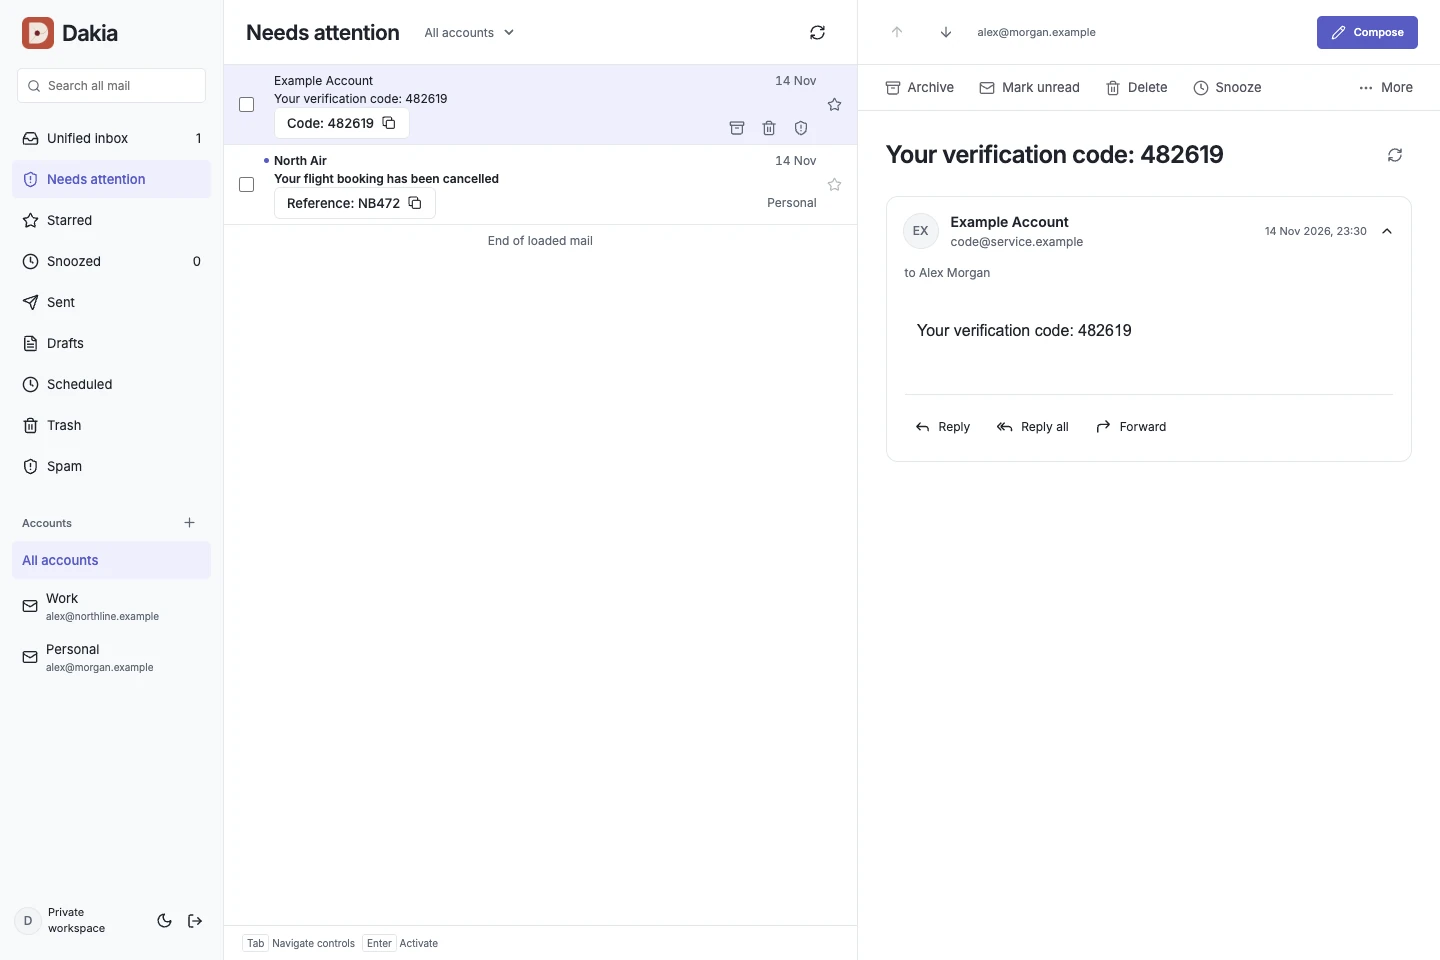
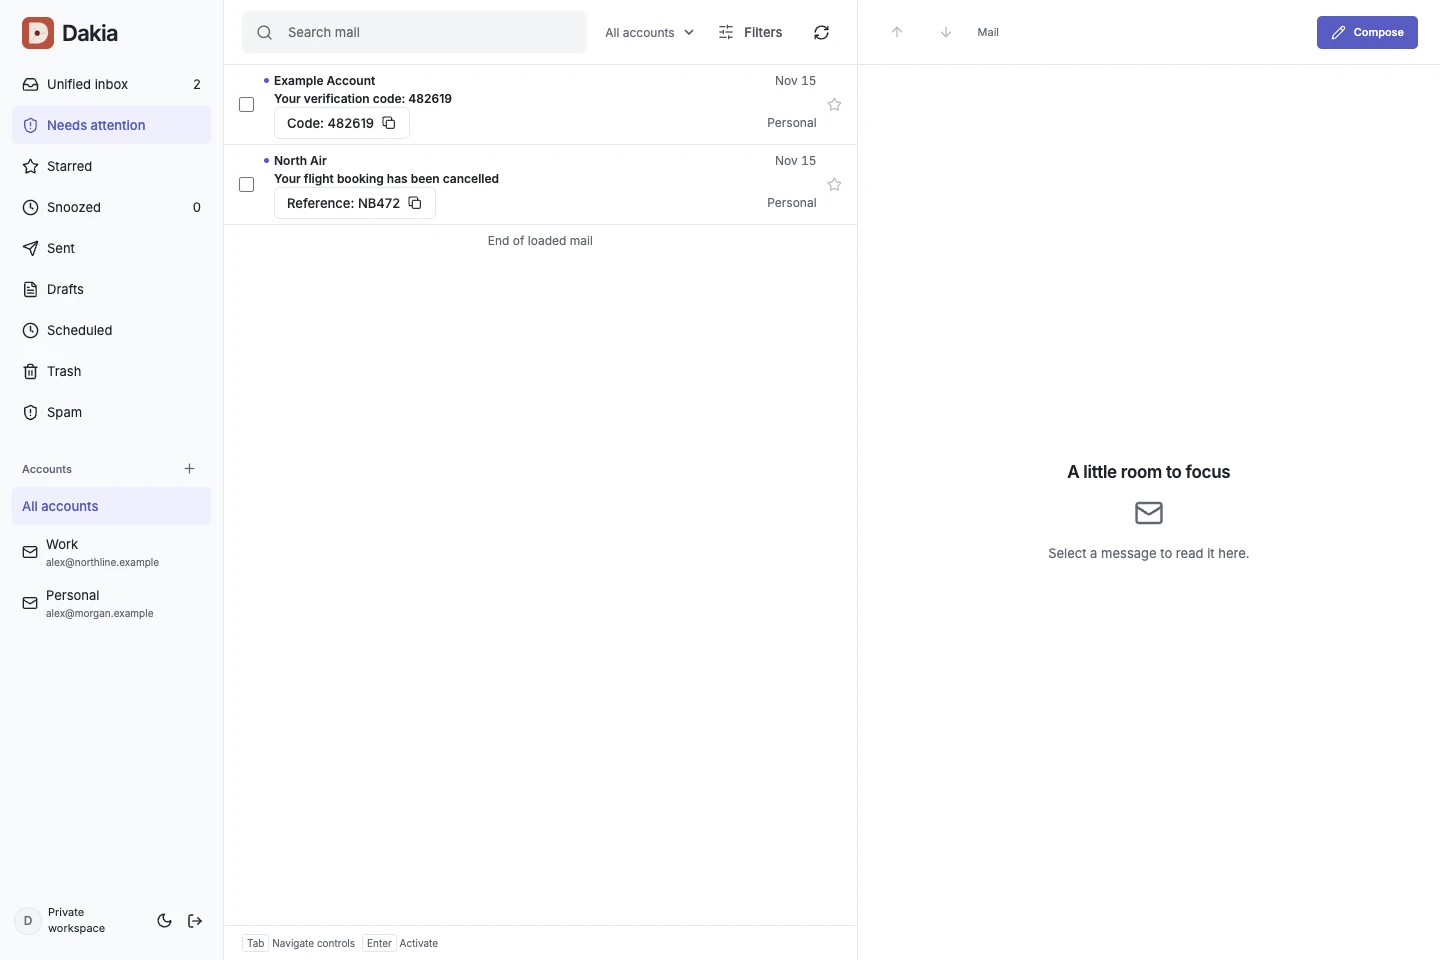
Refresh README screenshots with the search toolbar

diff --git a/docs/images/README.md b/docs/images/README.md
@@ -1,6 +1,6 @@
 # Documentation screenshots
 
-Captured on 2026-11-14 from source revision `1c104a7`, using the running Dakia frontend in an isolated Google Chrome session. All mail, names, addresses, and attachments are fictional. No real mailbox, personal browser profile, provider connection, or email delivery was used.
+Captured on 2026-11-15 from source revision `c63030c`, using the running Dakia frontend in an isolated Google Chrome session. All mail, names, addresses, and attachments are fictional. No real mailbox, personal browser profile, provider connection, or email delivery was used.
 
 ## Inbox, sending, and mobile
 
@@ -21,9 +21,9 @@ Open `http://127.0.0.1:5188/?reset=1` in an isolated Chrome profile. Desktop vie
 | `attention.webp` | Needs attention sidebar view with a verification code and cancelled flight |
 | `compose.webp` | New message to Maya, with Send later → Pick date & time open; cropped to the composer and picker |
 | `inbox-mobile.webp` | Personal inbox in the narrow browser layout |
-| `reader-mobile.webp` | Maya's conversation in the narrow layout, with dark theme enabled |
[1 lines of base64/hex data omitted]
 
-Mobile images are responsive browser captures, not native phone screenshots. Normal scroll boundaries, toolbar behavior, and the app's email-rendering colors are retained.
+Mobile images are responsive browser captures, not native phone screenshots. The demo read-state notice was dismissed with its normal control before capturing the mobile reader. Normal scroll boundaries, toolbar behavior, and the app's email-rendering colors are retained.
 
 ## Real on-device translation
 
@@ -38,24 +38,26 @@ DAKIA_MODEL_CACHE=/private/tmp/dakia-production-translation-models \
 
 The fixture listens on loopback port 4346. Its test session and CSRF values are defined in `apps/web/browser/device-translation-backend.spec.ts`; they authorize only this disposable fixture. Set the translation policy to `device`, then open its `estonian-english-footer` message.
 
-For the screenshot scene, intercepted API responses give the fictional message the subject “Neljapäevane kohtumine”, sender Liis Tamm (`liis@atelier.example`), and recipient Alex Morgan (`alex@northline.example`). Search returns that message and its conversation snapshot contains that message. The original HTML body is unchanged. The capture is cropped to the conversation, excluding unrelated fixture transport errors. No application code, translated output, or rendered interface was repainted.
+For the screenshot scene, intercepted API responses give the fictional message the subject “Neljapäevane kohtumine”, sender Liis Tamm (`liis@atelier.example`), and recipient Alex Morgan (`alex@northline.example`). Search and conversation responses contain that message with complete coverage. Account addresses are fictional. The original HTML body is unchanged. The full desktop viewport includes the new search toolbar. No application code, translated output, or rendered interface was repainted.
 
-The initial cold model request timed out. Public Estonian weights were then downloaded separately, checked against every pinned byte size and SHA-256 digest in `workers/translation/models.json`, and placed in the fixture's isolated model cache. The normal authenticated model endpoint delivered them to Chrome successfully. The real browser WASM engine translated the message, with no host translation POST. Browser Cache Storage contained the engine and three verified model artifacts after translation.
+The capture uses the previously verified Estonian weights in the isolated model cache, checked against the pinned byte sizes and SHA-256 digests in `workers/translation/models.json`. The authenticated model endpoint delivers them to Chrome, and the real browser WASM engine generates the English text. This refresh does not retest cold model downloads.
 
-`translation-original.webp` shows the original before translation. `translation.webp` shows the browser-generated English result with Show original available. Both are conversation-element captures cropped to 582 × 545. This is evidence of local inference and saved artifacts, not cold-download reliability, universal device support, or live-provider acceptance.
+For this refresh, a loopback HTTP proxy on port 5190 serves the newly built `apps/web/dist` and forwards fixture API requests to port 4346, preserving the fixture origin for its CSRF checks. This allows the existing compiled test fixture to be reused without rebuilding the Rust server. The screenshot route interception described above changes only fictional scene data.
+
+`translation-original.webp` shows the original before translation. `translation.webp` shows the browser-generated English result with Show original available. Both are full 1440 × 960 desktop captures. This is evidence of local inference, not cold-download reliability, universal device support, or live-provider acceptance.
 
 ## Export
 
-Google Chrome reported version 157 via its user agent. Source captures were PNG. Exports use Pillow WebP quality 90, method 6, without source metadata. Images retain their aspect ratio; only the composer and translation pair are cropped. The superseded inbox tour and older Workspace/mobile captures have been removed.
+Google Chrome reported version 157.0.8103.51. Source captures were PNG. Exports use Pillow WebP quality 90, method 6, without source metadata. Images retain their aspect ratio; only the composer is cropped. The superseded inbox tour and older Workspace/mobile captures have been removed.
 
 | File | Pixels | Bytes | SHA-256 |
 | --- | --- | ---: | --- |
[18 lines of base64/hex data omitted]
